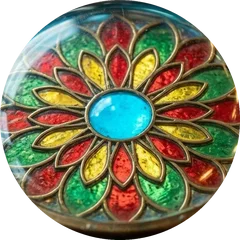
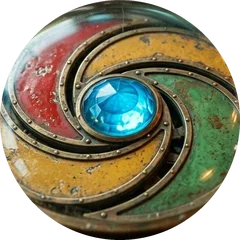
The Tumble: Christian's new Chrome close-up, matching its button (#270)
Claude-Session: https://claude.ai/code/session_0195hiXiVZY5DpQ2CCYEr2vL

diff --git a/web/tumble.js b/web/tumble.js
@@ -147,12 +147,12 @@
   // big glow. Nothing scrolls until the year in the dial itself is picked: then a slow tumble down to it.
   var close = document.querySelector('.tm-close'), closeImg = close && close.querySelector('img'), closeYr = close && close.querySelector('b'), held = 0, heldY = 0;
   var jwls = [].slice.call(document.querySelectorAll('.tm-jw')), brbs = [].slice.call(document.querySelectorAll('.tm-hb.br'));
-  function showClose(k, y) { closeImg.src = 'media/closeup/' + k + '.webp'; closeYr.textContent = y; close.classList.add('on'); }
+  function showClose(k, y) { closeImg.src = 'media/closeup/' + k + '.webp?v=2'; closeYr.textContent = y; close.classList.add('on'); }
   function hideClose() { if (!held) close.classList.remove('on'); }
   function release() { clearTimeout(held); held = 0; close.classList.remove('on', 'held'); close.setAttribute('tabindex', '-1'); }
   [].forEach.call(document.querySelectorAll('[data-close]'), function (b, n) {
     var k = b.getAttribute('data-close'), y = (jwls.filter(function (j) { return j.getAttribute('data-close') === k; })[0] || b).getAttribute('data-b');
-    (new Image()).src = 'media/closeup/' + k + '.webp';
+    (new Image()).src = 'media/closeup/' + k + '.webp?v=2';
     var show = function () { if (!held) showClose(k, y); };
     b.addEventListener('mouseenter', show); b.addEventListener('focus', show); b.addEventListener('mouseleave', hideClose); b.addEventListener('blur', hideClose);
   });

diff --git a/web/index.html b/web/index.html
@@ -315,6 +315,6 @@
   <p class="tb-acts"><button type="button" class="tb-btn" data-tb-up>Climb back to 2026 &uarr;</button> <a class="tb-btn ghost" href="../?web">Back to the lake</a> <a class="tb-btn ghost" href="../about/">The résumé</a></p>
 </section>
 </main>
-<script src="tumble.js?v=19" defer></script>
+<script src="tumble.js?v=20" defer></script>
 </body>
 </html>
